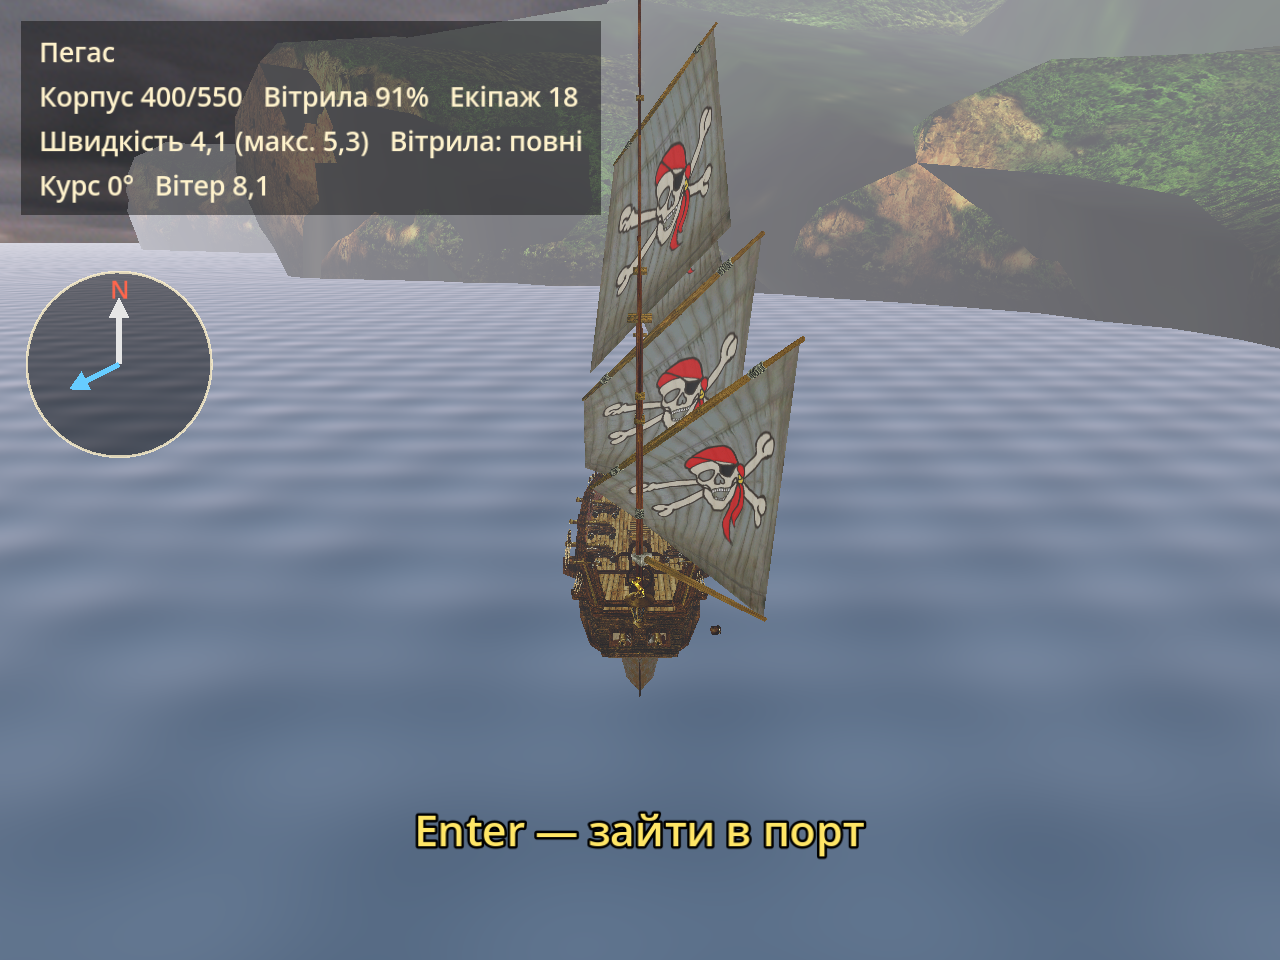
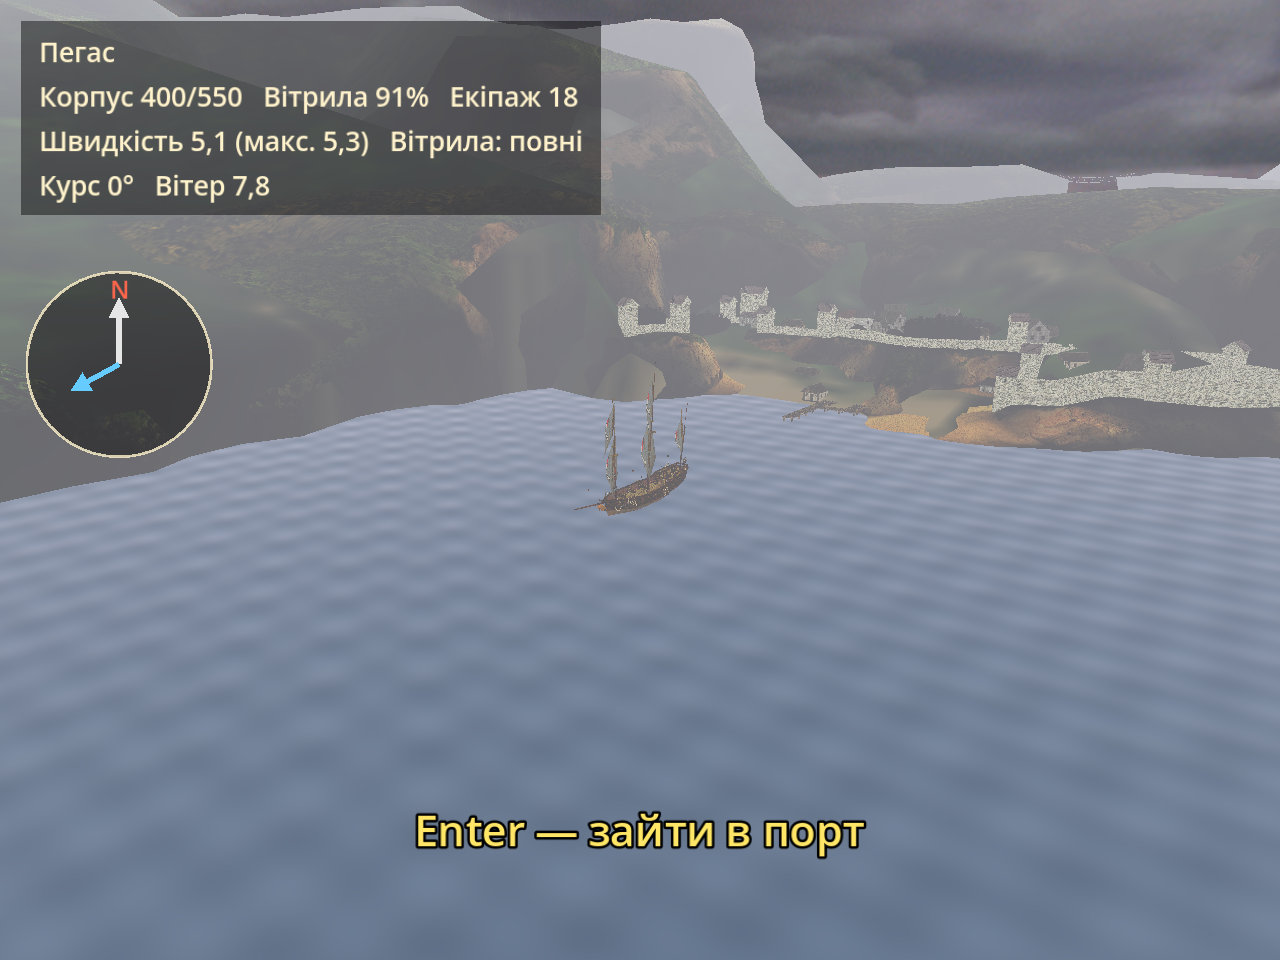
Sea: basic ship AI tasks (move/attack/follow/runaway)

diff --git a/game/Sea.cs b/game/Sea.cs
@@ -17,7 +17,7 @@ namespace SeaDogs;
 public partial class SeaView : Node3D
 {
     // ---- message ids (SEA_AI/Script_Defines.h, messages.h)
-    const int AI_ADD_SHIP = 51001, AI_GROUP_XYZ_AY = 51010, AI_GROUP_COMMANDER = 51022, AI_UNLOAD = 51025, AI_SHIP_SAIL_STATE = 51021;
+    const int AI_SHIP_SET_TASK = 51011, AI_ADD_SHIP = 51001, AI_GROUP_XYZ_AY = 51010, AI_GROUP_COMMANDER = 51022, AI_UNLOAD = 51025, AI_SHIP_SAIL_STATE = 51021;
     const int ISLAND_LOAD_GEO = 50100, ISLAND_SET_GEO = 50101;
 
     sealed class ShipRt
@@ -30,6 +30,9 @@ public partial class SeaView : Node3D
         public float X, Z, Ay;
         public float ParamTimer;
         public bool IsPlayer, Aground;
+        public int Task = -1;                 // AITASK_*: 0 drift, 1 attack, 2 follow, 3 defend, 6 runaway, 7 move
+        public Attr? TaskTarget;
+        public float TaskX, TaskZ;
         public float Length = 30f, Height = 12f;
         public List<Node3D> Sails = new();
     }
@@ -159,6 +162,16 @@ public partial class SeaView : Node3D
             {
                 int idx = Conv.ToInt(d.Length > 1 ? d[1] : V.Int(-1));
                 if (ships.FirstOrDefault(s => s.Index == idx) is { } sh) sh.Sail = Math.Clamp(Fl(2), 0f, 1f);
+                return V.Int(1);
+            }
+            case AI_SHIP_SET_TASK:                                                        // "lllaff" / "lllaa": task, priority, character, (x, z | target character)
+            {
+                if (d.Length > 3 && d[3].Attr is { } who && ships.FirstOrDefault(s => ReferenceEquals(s.Chr, who)) is { } sh)
+                {
+                    sh.Task = Conv.ToInt(d[1]); sh.TaskTarget = null;
+                    if (d.Length > 5 && d[4].T != VT.Attr) { sh.TaskX = Fl(4); sh.TaskZ = Fl(5); }
+                    else if (d.Length > 4) sh.TaskTarget = d[4].Attr;
+                }
                 return V.Int(1);
             }
             case AI_UNLOAD: Clear(); return V.Int(1);
@@ -391,6 +404,7 @@ public partial class SeaView : Node3D
             if (sh == null) continue;
             float maxZ = F(sh, "MaxSpeedZ"), maxY = F(sh, "MaxSpeedY");
             float turnIn = 0f;
+            if (!s.IsPlayer) turnIn = Steer(s, sh);
             if (s.IsPlayer && inputEnabled)
             {
                 if (Godot.Input.IsKeyPressed(Key.A)) turnIn -= 1f;
@@ -482,6 +496,31 @@ public partial class SeaView : Node3D
     {
         bool canMoor = it.Globals.TryGetValue("bCanEnterToLand", out var g) && Conv.ToInt(g.Val) != 0;
         it.FireEvent("BI_SetSeaState", new List<V> { V.Int(0), V.Int(0), V.Int(canMoor ? 0 : 1), V.Int(0), V.Int(0), V.Int(0), V.Int(-1) });
+    }
+
+    /// <summary>Very small ship AI: head for the task position / target, keep a broadside distance when attacking, run away from the player.</summary>
+    float Steer(ShipRt s, Attr sh)
+    {
+        float tx = s.X, tz = s.Z;
+        ShipRt? tgt = s.TaskTarget != null ? ships.FirstOrDefault(o => ReferenceEquals(o.Chr, s.TaskTarget)) : null;
+        bool go = true, away = false; float standoff = 0f;
+        switch (s.Task)
+        {
+            case 7: if (tgt != null) { tx = tgt.X; tz = tgt.Z; standoff = 60f; } else { tx = s.TaskX; tz = s.TaskZ; standoff = 40f; } break;
+            case 1: case 2: case 3: if (tgt != null) { tx = tgt.X; tz = tgt.Z; standoff = s.Task == 1 ? 110f : 70f; } else go = false; break;
+            case 6: var pl = ships.FirstOrDefault(o => o.IsPlayer); if (pl != null) { tx = pl.X; tz = pl.Z; away = true; } else go = false; break;
+            default: go = false; break;
+        }
+        float dx = tx - s.X, dz = tz - s.Z, dist = MathF.Sqrt(dx * dx + dz * dz);
+        float want = MathF.Atan2(dx, dz);
+        if (away) want += MathF.PI;
+        else if (s.Task == 1 && dist < standoff * 2f) want += MathF.PI / 2f * (MathF.Sin(want - s.Ay) >= 0 ? -1f : 1f);     // come alongside
+        float diff = want - s.Ay;
+        while (diff > MathF.PI) diff -= MathF.Tau;
+        while (diff < -MathF.PI) diff += MathF.Tau;
+        float newSail = !go || (!away && dist < standoff && s.Task != 1) ? 0f : 1f;
+        if (newSail != s.Sail) { s.Sail = newSail; it.FireEvent("Shp_UpdParams", new List<V> { V.Int(s.Index), V.Float(s.Sail) }); }
+        return Math.Clamp(diff * 2f, -1f, 1f);
     }
 
     public void SailKey(int dir)
